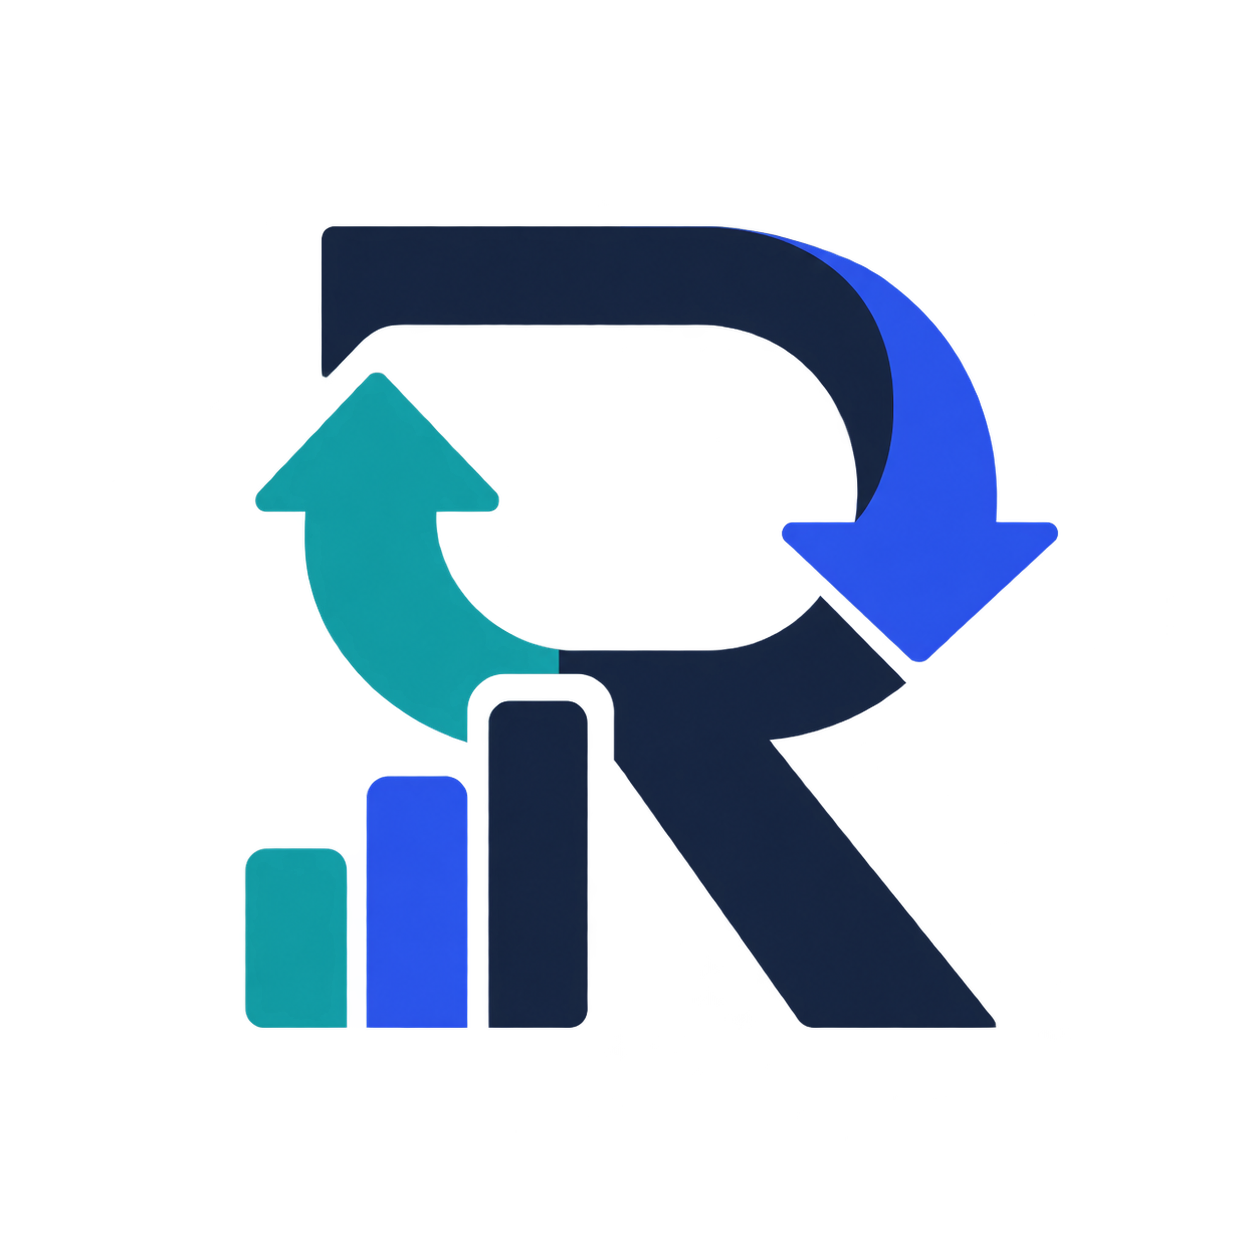
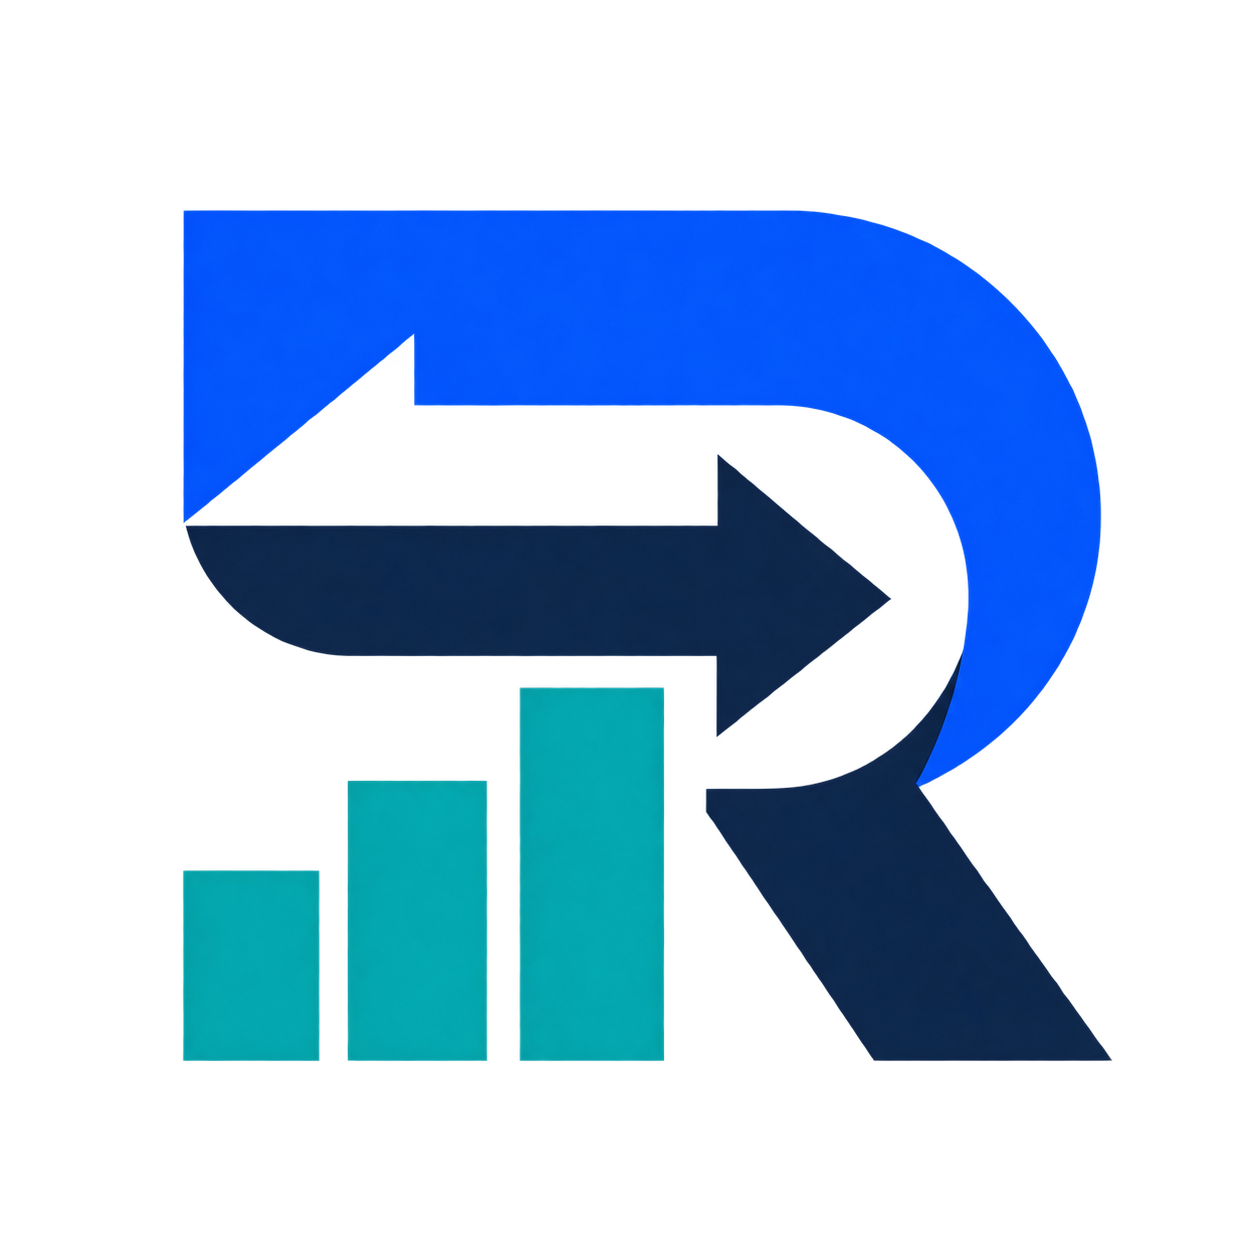
V2.0.0-beta.11

diff --git a/tests/branding-assets-test.php b/tests/branding-assets-test.php
@@ -5,11 +5,13 @@ $root     = dirname( __DIR__ );
 $admin    = file_get_contents( $root . '/includes/class-admin-settings.php' );
 $settings = file_get_contents( $root . '/admin/settings-page.php' );
 $failures = array();
+$icon_path = $root . '/assets/images/resa-icon.png';
+$logo_path = $root . '/assets/images/resa-logo-horizontal.png';
 
-if ( ! is_file( $root . '/assets/images/resa-icon.png' ) ) {
+if ( ! is_file( $icon_path ) ) {
 	$failures[] = 'Square RESA icon is missing.';
 }
-if ( ! is_file( $root . '/assets/images/resa-logo-horizontal.png' ) ) {
+if ( ! is_file( $logo_path ) ) {
 	$failures[] = 'Horizontal RESA logo is missing.';
 }
 if ( false === strpos( $admin, "TVES_URL . 'assets/images/resa-icon.png'" ) ) {
@@ -20,6 +22,23 @@ if ( false === strpos( $settings, "TVES_URL . 'assets/images/resa-logo-horizonta
 }
 if ( false === strpos( $admin, '#toplevel_page_tves-settings .wp-menu-image img' ) || false === strpos( $admin, 'width:20px!important' ) ) {
 	$failures[] = 'Admin menu icon does not have a defensive 20px size constraint.';
+}
+
+if ( is_file( $icon_path ) && is_file( $logo_path ) ) {
+	$icon_size = getimagesize( $icon_path );
+	$logo_size = getimagesize( $logo_path );
+	$icon_data = file_get_contents( $icon_path, false, null, 0, 26 );
+	$logo_data = file_get_contents( $logo_path, false, null, 0, 26 );
+
+	if ( ! $icon_size || $icon_size[0] !== $icon_size[1] ) {
+		$failures[] = 'RESA menu icon must use a square canvas.';
+	}
+	if ( ! $logo_size || $logo_size[0] <= ( $logo_size[1] * 2 ) ) {
+		$failures[] = 'RESA horizontal logo must retain its wide lockup.';
+	}
+	if ( strlen( $icon_data ) < 26 || 6 !== ord( $icon_data[25] ) || strlen( $logo_data ) < 26 || 6 !== ord( $logo_data[25] ) ) {
+		$failures[] = 'RESA brand PNG files must retain genuine alpha transparency.';
+	}
 }
 
 if ( $failures ) {

diff --git a/torob-variable-exporter.php b/torob-variable-exporter.php
@@ -2,7 +2,7 @@
 /**
  * Plugin Name: رسا | RESA — همگامسازی ووکامرس با ترب
  * Description: محصولات ساده و انتخابهای محصولات متغیر ووکامرس را از طریق API رسمی ترب همگامسازی میکند.
- * Version:     2.0.0-beta.10
+ * Version:     2.0.0-beta.11
  * Author:      ARSHIA
  * Text Domain: torob-variable-exporter
  * Requires at least: 6.5
@@ -14,7 +14,7 @@
 
 defined( 'ABSPATH' ) || exit;
 
-define( 'TVES_VERSION', '2.0.0-beta.10' );
+define( 'TVES_VERSION', '2.0.0-beta.11' );
 define( 'TVES_FILE', __FILE__ );
 define( 'TVES_PATH', plugin_dir_path( __FILE__ ) );
 define( 'TVES_URL', plugin_dir_url( __FILE__ ) );

diff --git a/README.md b/README.md
@@ -5,7 +5,7 @@
 افزونه مستقل ووکامرس برای تبدیل هر Variation به یک آیتم محصول مستقل، تولید فید JSON صفحهبندیشده، مدیریت همگامسازی و مشاهده گزارشها.
 
 **نویسنده:** ARSHIA  
-**نسخه:** 2.0.0-beta.10<br>
+**نسخه:** 2.0.0-beta.11<br>
 **مجوز:** GPL-2.0-or-later
 
 ---
@@ -218,6 +218,13 @@ WooCommerce-Torob-Variation-Sync/
 5. Pull Request همراه با توضیح و روش تست ارسال کنید.
 
 ### تاریخچه نسخهها
+
+#### 2.0.0-beta.11
+
+- حذف حرف `R` تکراری از لوگوی افقی و تبدیل ترکیب نوشتاری به `R نمادین + ESA`
+- یکسانسازی آیکن منوی وردپرس با همان `R` نمادین اصلی لوگوی رسا
+- حفظ پسزمینه شفاف واقعی، رنگها و گرادیانهای هویت بصری فعلی
+- گسترش تست برند برای کنترل مربعبودن آیکن، افقیبودن لوگو و وجود کانال Alpha
 
 #### 2.0.0-beta.10
 
@@ -542,6 +549,13 @@ See the project tree in the Persian section above. Runtime logs are stored in a 
 5. Open a pull request with a clear description and test instructions.
 
 ### Changelog
+
+#### 2.0.0-beta.11
+
+- Removes the duplicate text `R` from the horizontal lockup, leaving the symbolic `R + ESA`.
+- Aligns the WordPress admin icon with the same primary symbolic `R` used by the RESA logo.
+- Preserves genuine transparency, colors, and gradients across both brand assets.
+- Extends brand regression checks for icon shape, horizontal proportions, and alpha transparency.
 
 #### 2.0.0-beta.10
 
